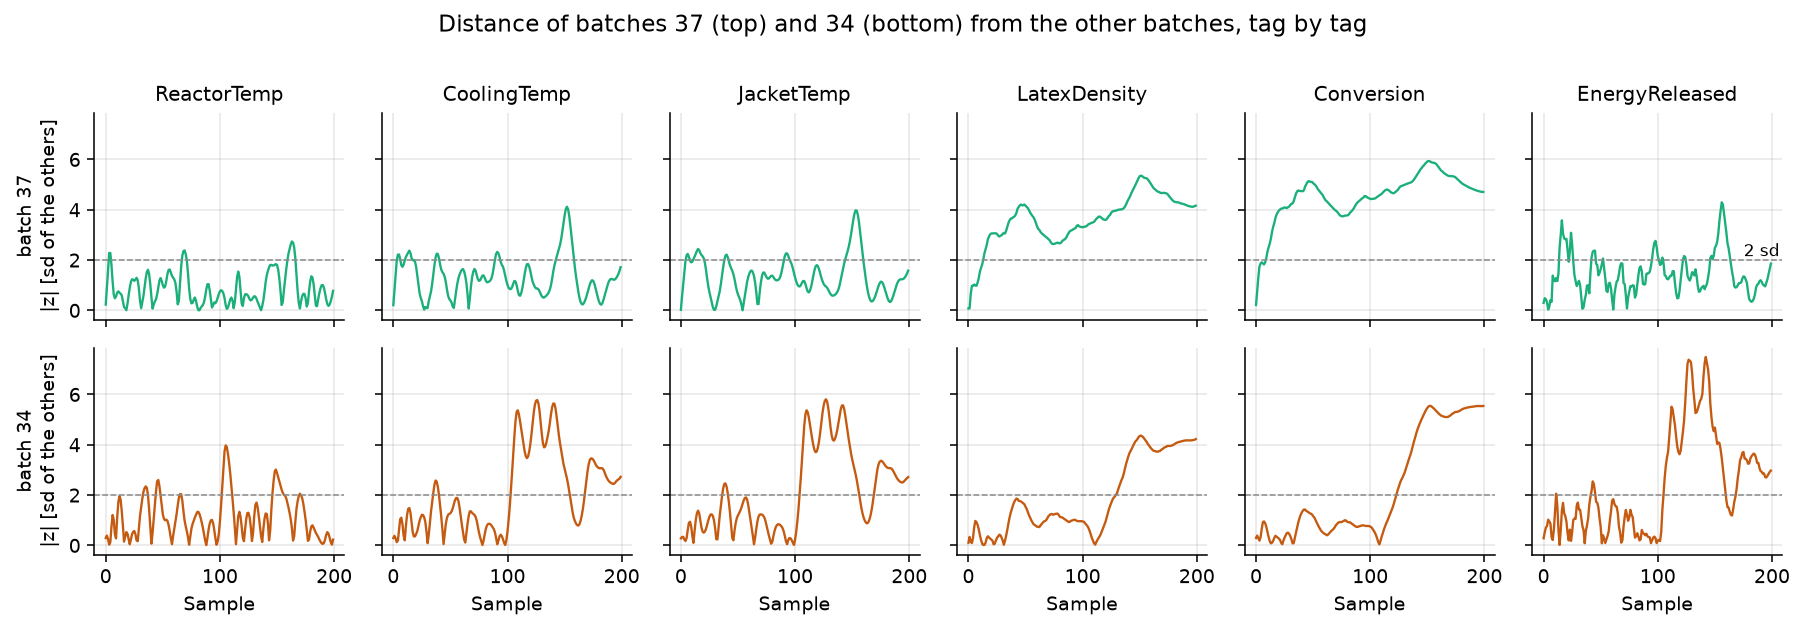
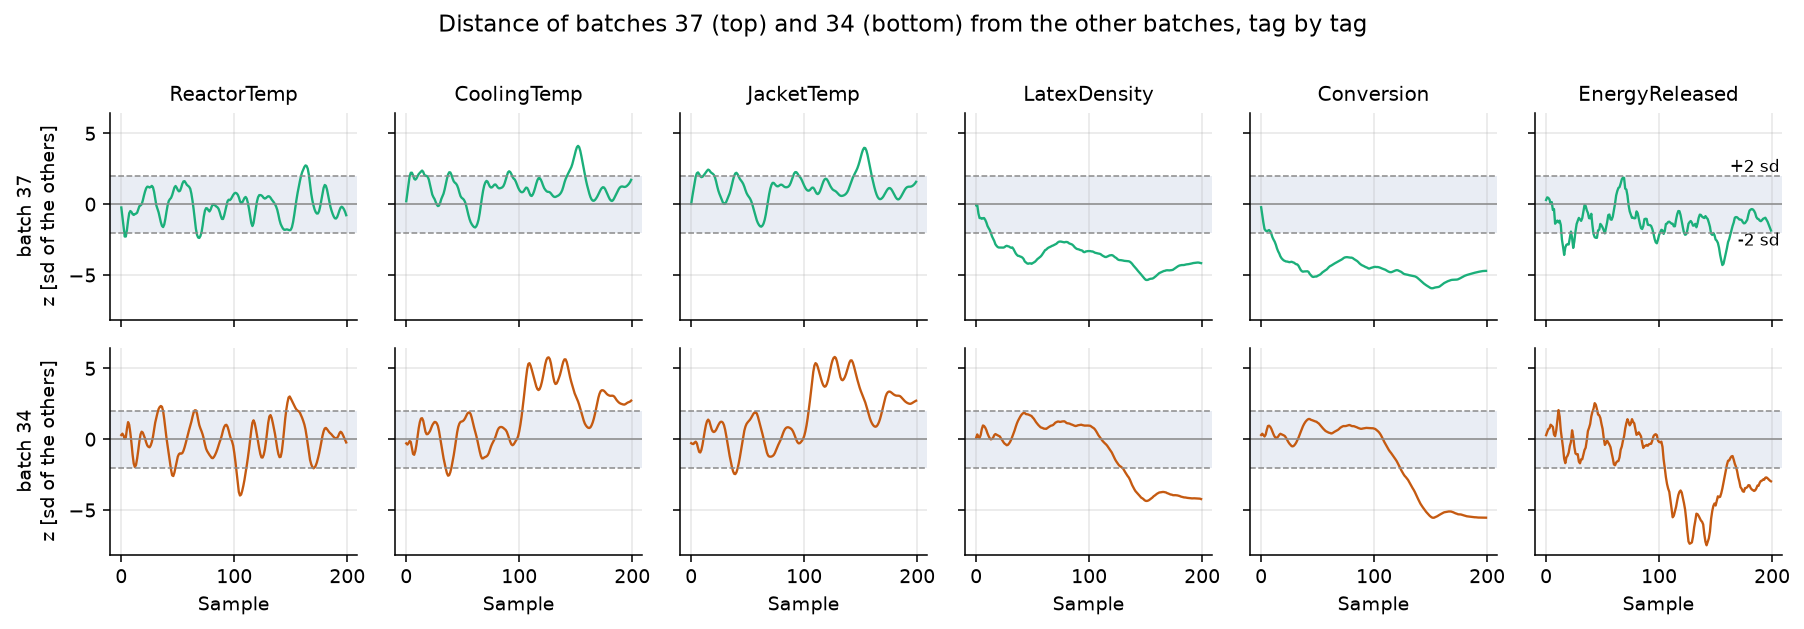
Show the SBR departure figure with signed z, not its absolute value
The sign is the useful part: it says whether a tag ran above or below the other
batches, which the absolute value threw away. Batch 34's cooling-water and
jacket temperatures now visibly rise above the band while its energy released,
conversion and latex density fall below it, and batch 37 falls below in the
latex density and the conversion. That is the direction the surrounding text
argues from, and until now the figure could not show it.

The band between plus and minus two standard deviations is shaded, with a
dashed line and a label on each edge and a zero line through the middle. The
onset rule is unchanged: it still tests the magnitude, so the reported samples
are the same.

Claude-Session: https://claude.ai/code/session_01LXthGpHLQFfGubBiKFtGAE

diff --git a/batch/batch-case-sbr-figures.py b/batch/batch-case-sbr-figures.py
@@ -28,7 +28,7 @@ import pathlib
 
 import matplotlib.pyplot as plt
 import numpy as np
-from batch_case_common import AQUA, DARK_BLUE, ORANGE, contribution_triptych, influence_plot, overlay_panels, parity_plot, save, score_plot, tag_panels
+from batch_case_common import AQUA, BAND, DARK_BLUE, GREY, ORANGE, contribution_triptych, influence_plot, overlay_panels, parity_plot, save, score_plot, tag_panels
 
 from process_improve.batch import BatchPLS, load_sbr
 
@@ -74,23 +74,29 @@ def main(out_dir: pathlib.Path, data_url: str | None) -> None:
     save(fig, out_dir, "batch-case-sbr-observed-vs-fitted")
 
     # When does each trajectory of the two faulty batches leave the band of the other batches?
-    # One panel per tag and batch: |z|, the deviation from the other batches' mean in their standard deviations.
+    # One panel per tag and batch: z, the signed deviation from the other batches' mean in their
+    # standard deviations. Signed rather than absolute, so the direction of the departure shows.
     others = np.stack([batch.to_numpy() for key, batch in trajectories.items() if key not in HIGHLIGHT])
     mean, sd = others.mean(axis=0), others.std(axis=0, ddof=1)
     fig, axes = plt.subplots(2, len(sbr.trajectory_tags), figsize=(13.0, 4.4), sharex=True, sharey=True)
     for row, batch_id in enumerate([FAULT_FROM_START, FAULT_PARTWAY]):
-        z = np.abs((trajectories[batch_id].to_numpy() - mean) / sd)
+        z = (trajectories[batch_id].to_numpy() - mean) / sd
         for j, tag in enumerate(sbr.trajectory_tags):
             ax = axes[row, j]
-            ax.plot(z[:, j], lw=1.2, color=HIGHLIGHT[batch_id])
-            ax.axhline(2, color="0.55", lw=0.8, ls="--")
+            ax.axhspan(-2, 2, color=BAND, zorder=0, lw=0)
+            ax.plot(z[:, j], lw=1.2, color=HIGHLIGHT[batch_id], zorder=2)
+            ax.axhline(0, color=GREY, lw=0.8)
+            for level in (-2, 2):
+                ax.axhline(level, color="0.55", lw=0.8, ls="--")
             if row == 0:
                 ax.set_title(tag)
             if j == 0:
-                ax.set_ylabel(f"batch {batch_id}\n|z| [sd of the others]")
+                ax.set_ylabel(f"batch {batch_id}\nz [sd of the others]")
             if row == 1:
                 ax.set_xlabel("Sample")
-    axes[0, -1].text(0.99, 2, "2 sd", transform=axes[0, -1].get_yaxis_transform(), ha="right", va="bottom", fontsize=8.5)
+    for level, label in ((2, "+2 sd"), (-2, "-2 sd")):
+        axes[0, -1].text(0.99, level, label, transform=axes[0, -1].get_yaxis_transform(), ha="right",
+                         va="bottom" if level > 0 else "top", fontsize=8.5)
     fig.suptitle("Distance of batches 37 (top) and 34 (bottom) from the other batches, tag by tag", y=1.01)
     fig.tight_layout()
     save(fig, out_dir, "batch-case-sbr-departure")
